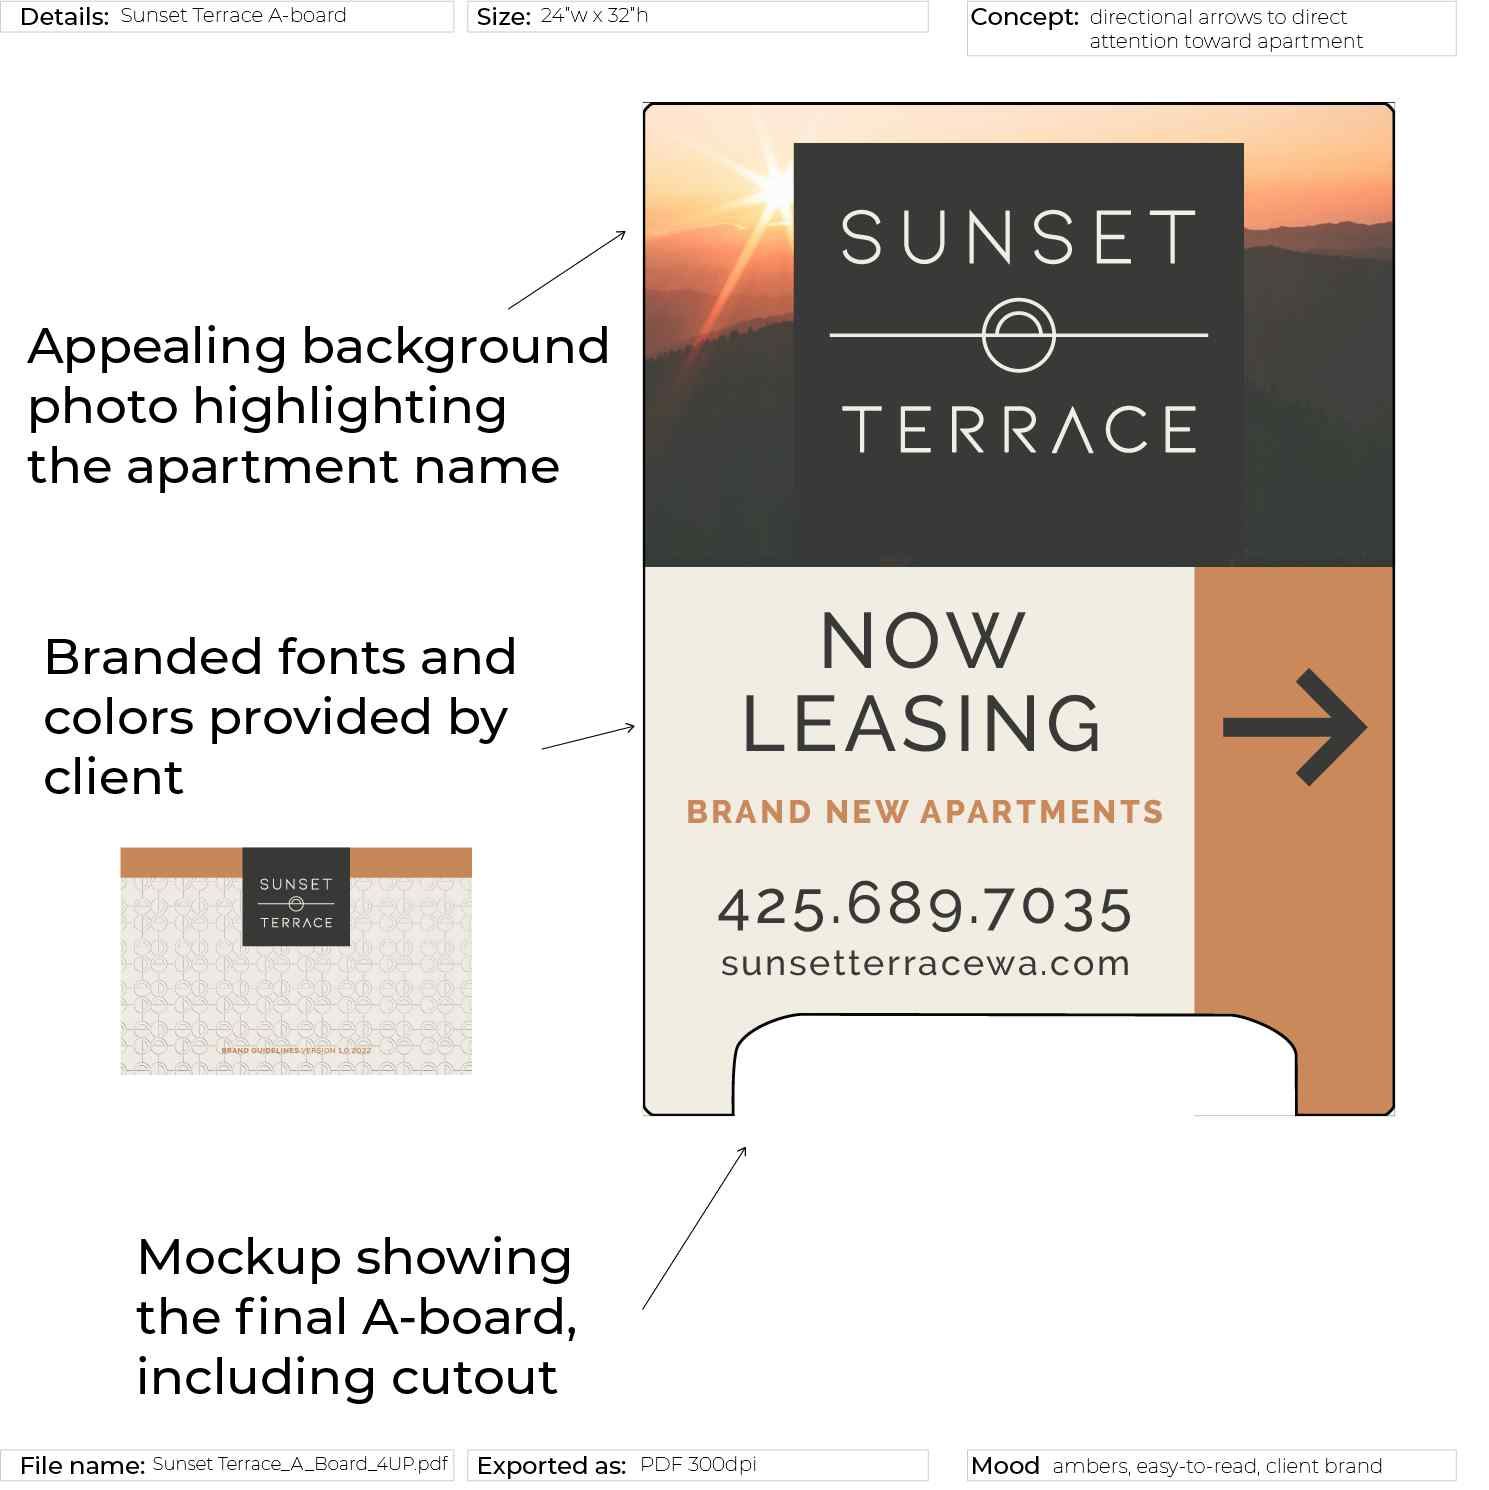
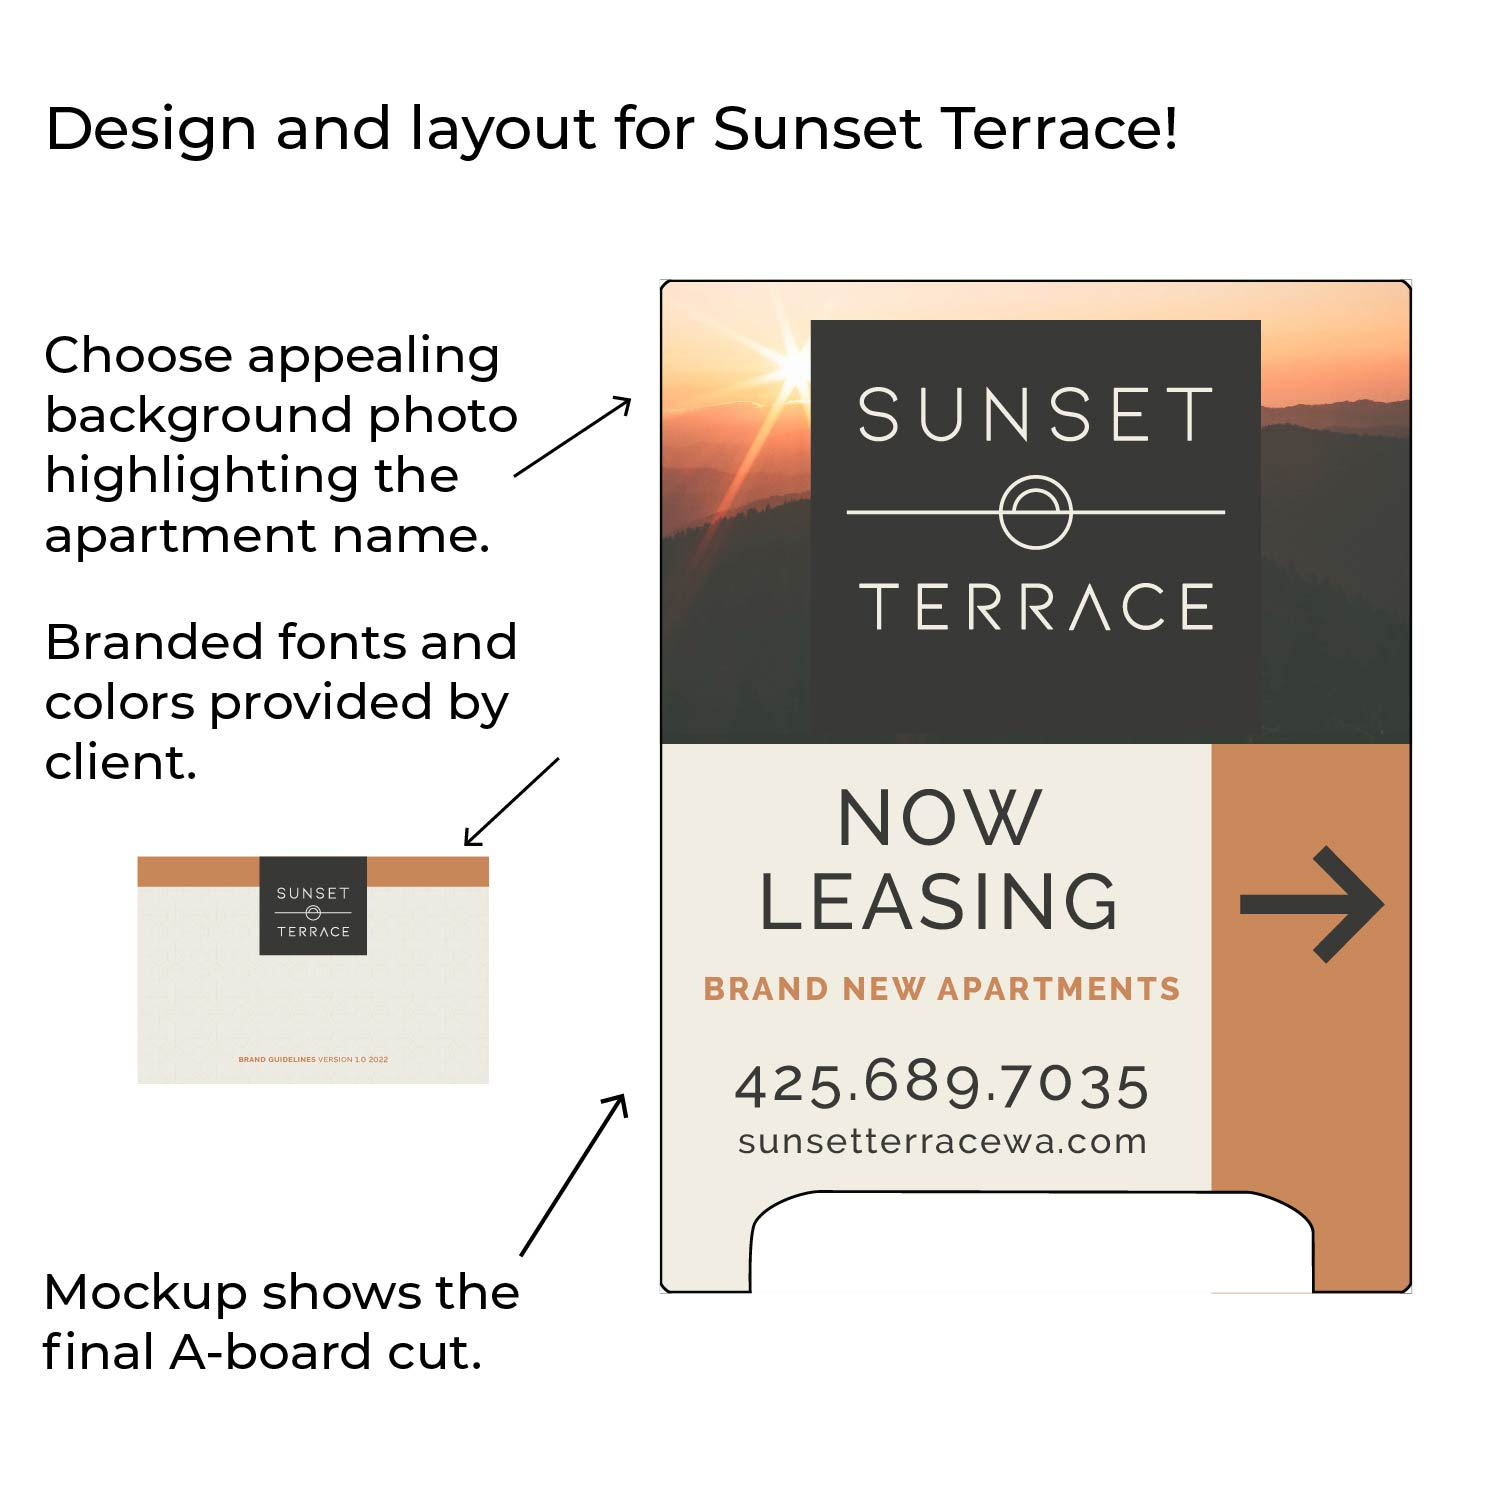
updated a-board details

diff --git a/index.html b/index.html
@@ -124,7 +124,7 @@
           
           <div class="overlay">
             <div class="overlay-text"> 
-              <a href="./images/a-board-details-web.png"><img src="./images/a-board-details-web.jpg" alt="outdoor marketing signage"></a>
+              <a href="./images/a-board-details.png"><img src="./images/a-board-details-web.jpg" alt="outdoor marketing signage"></a>
             </div>
           </div>
         </div>
